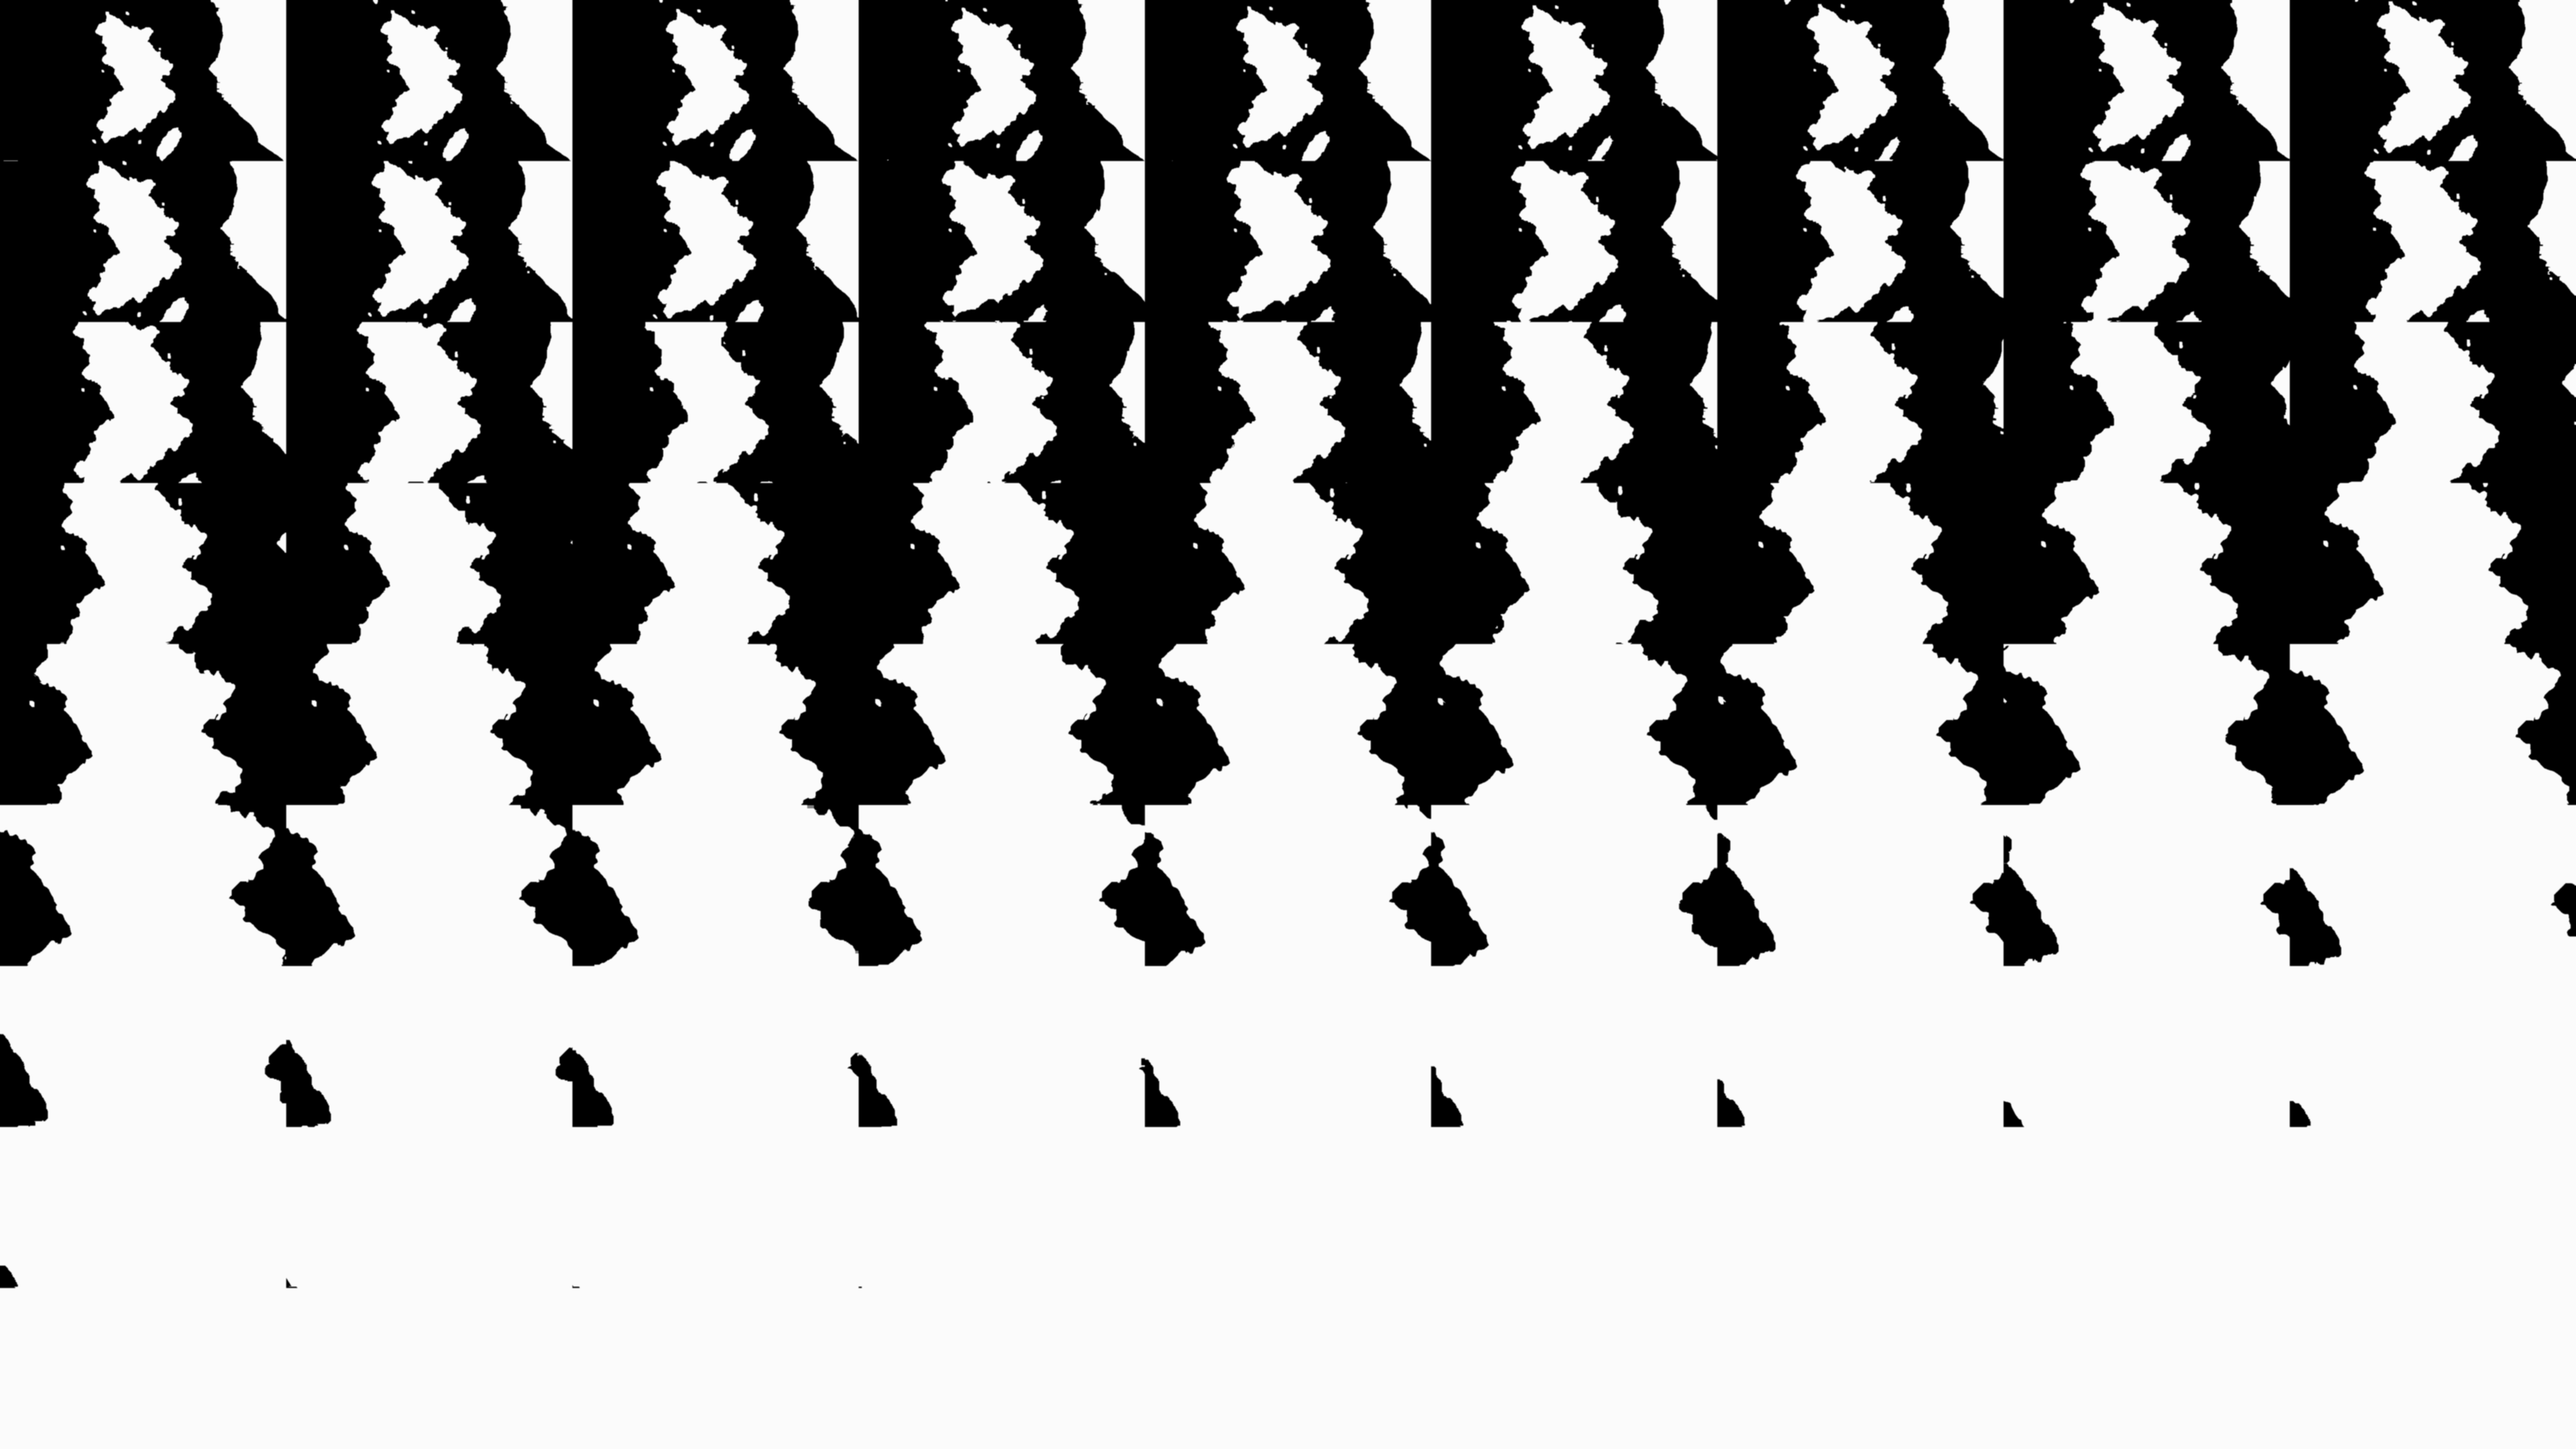
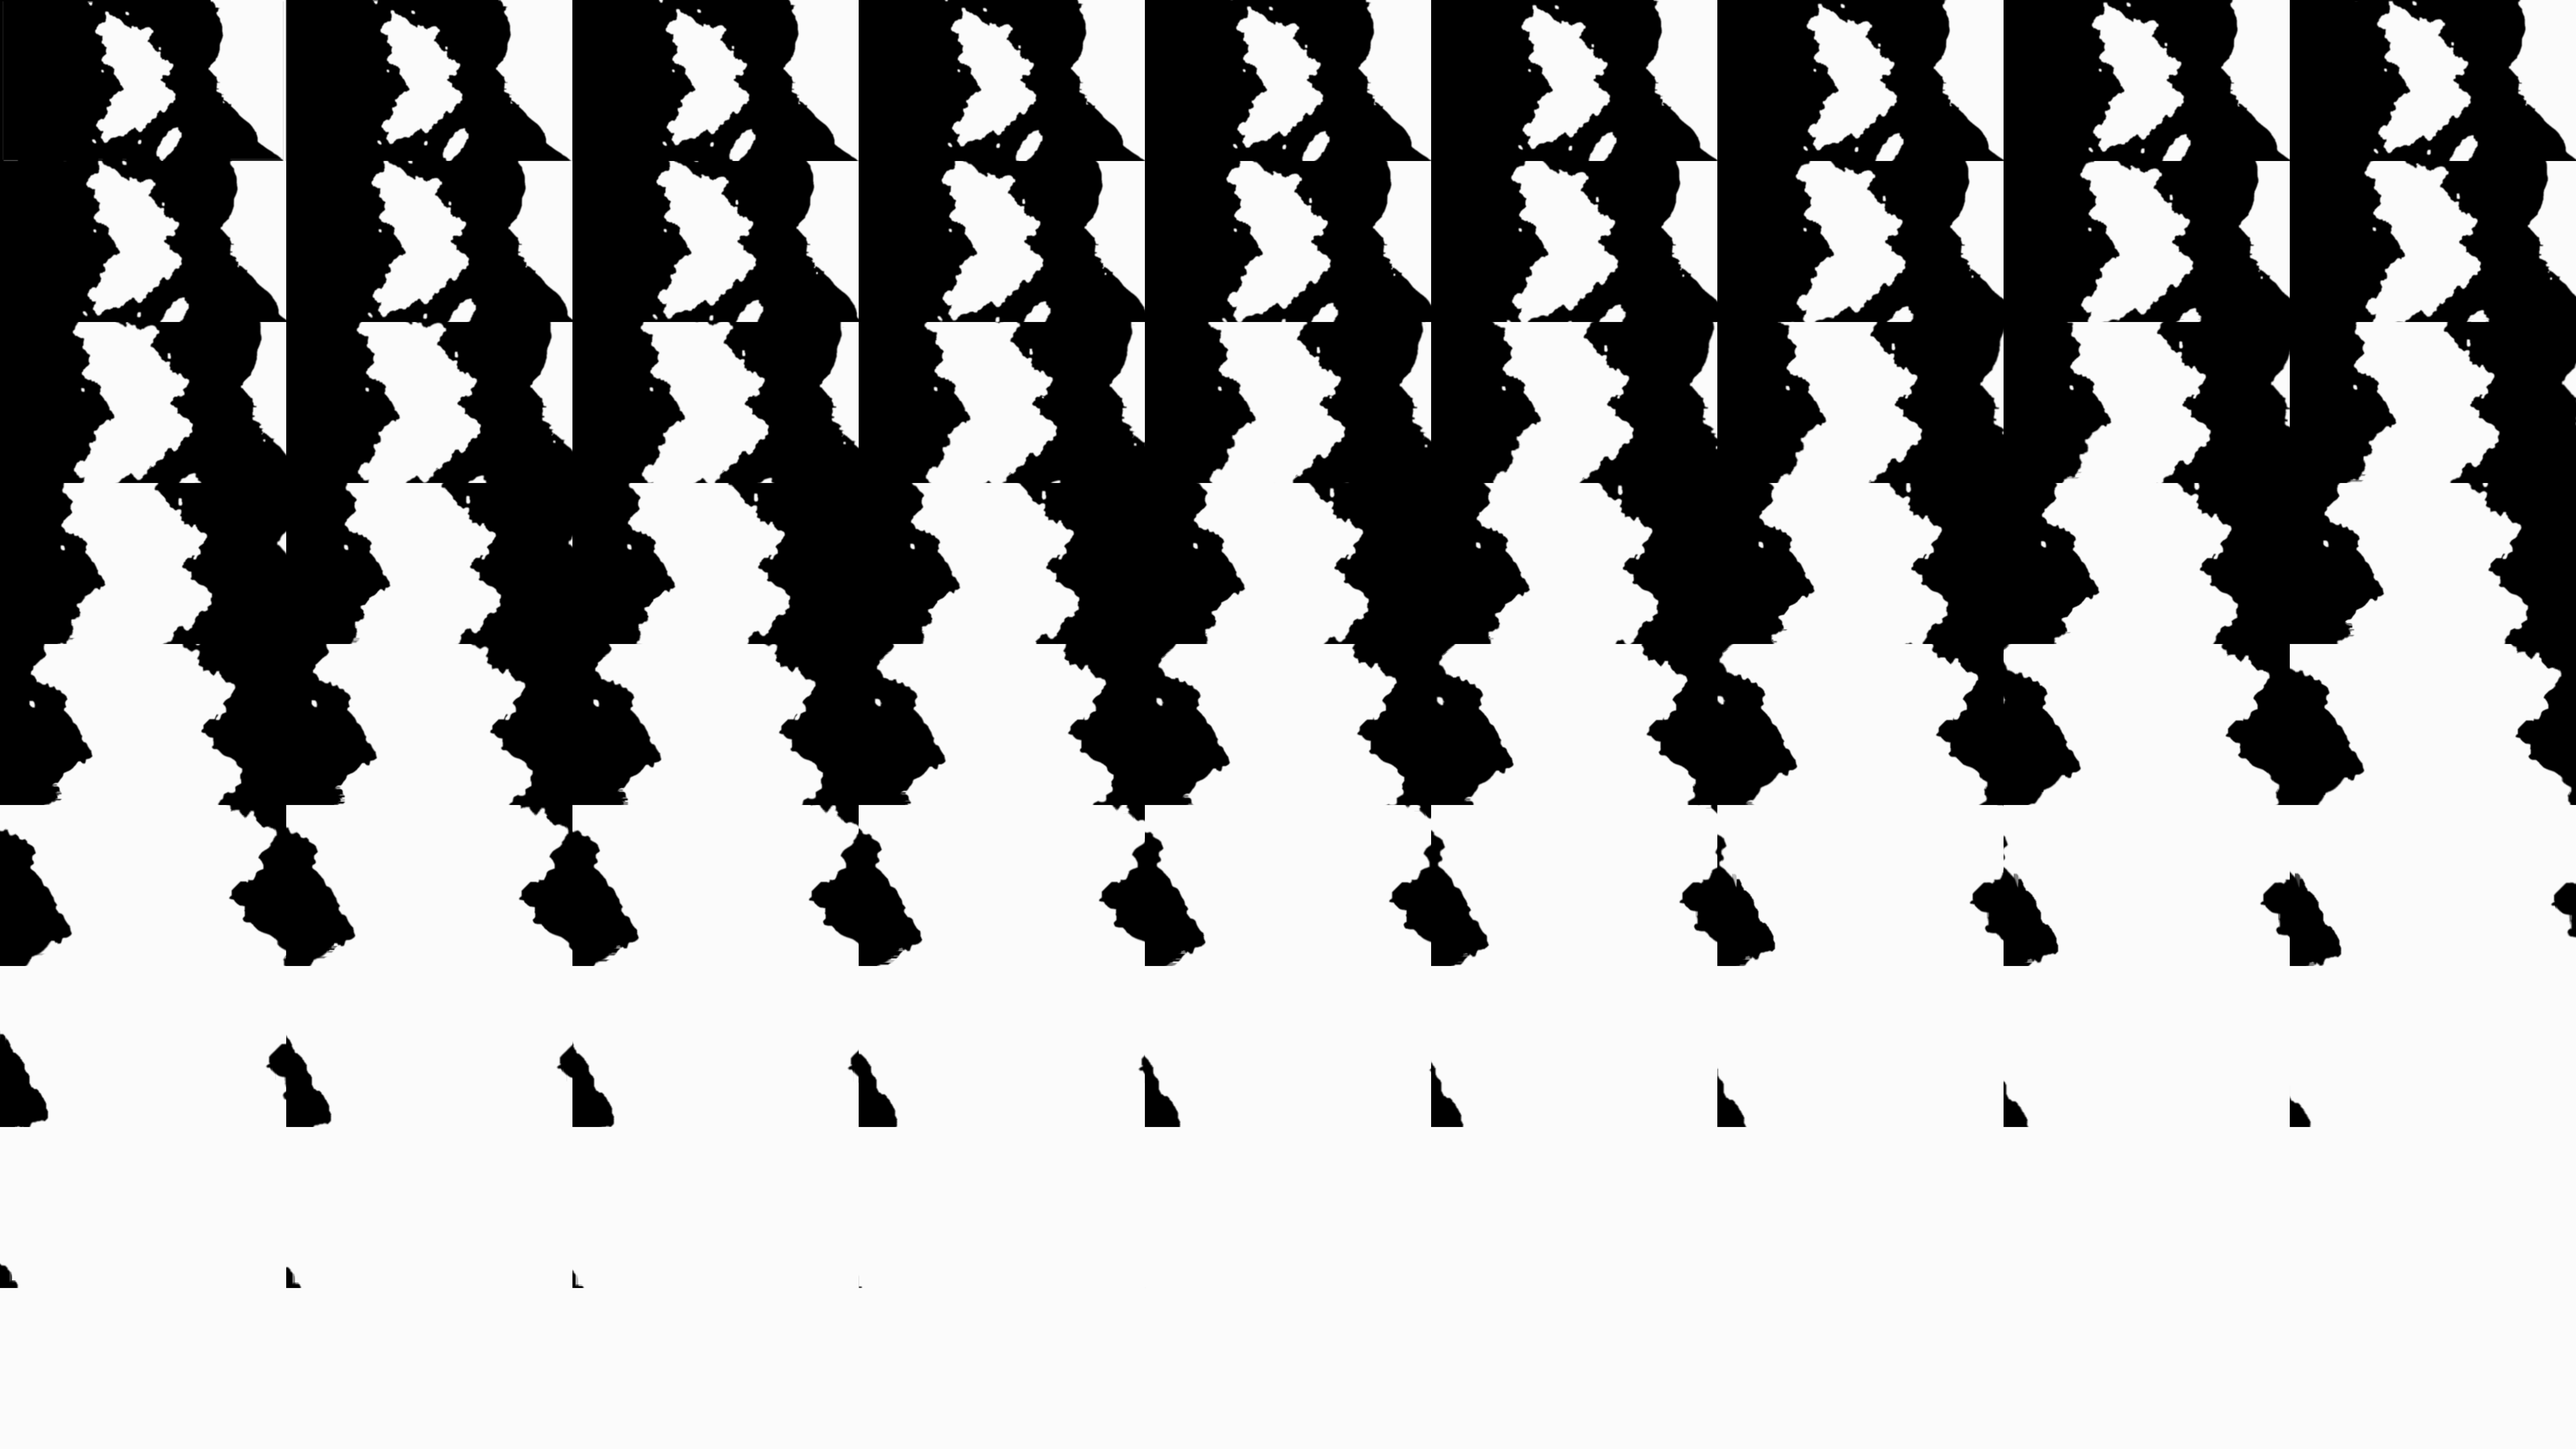
fix: the main land keeps its shape while zooming
- the clip's land pictures (one per frame) are made again from the frames around each, laid on the same
  ground: about one in seven had been traced a few percent smaller, so the land throbbed as they passed
- the coast is decided only from the map's land and noise fixed on the ground, nothing set against the screen
- map pictures' version raised so the new land picture is loaded

diff --git a/app/layout.tsx b/app/layout.tsx
@@ -21,7 +21,7 @@ export const viewport: Viewport = {
 
 // The planet's pictures are asked for in the page's head, so they come down at the same time as the
 // code that draws the planet (which is big) instead of after it.
-const PLANET_PICTURES = ['maps/globe-map.webp', 'maps/globe-land.webp?v=4', 'maps/milky-way.webp', 'maps/milky-way-2.webp']
+const PLANET_PICTURES = ['maps/globe-map.webp', 'maps/globe-land.webp?v=5', 'maps/milky-way.webp', 'maps/milky-way-2.webp']
 
 export default function RootLayout({ children }: Readonly<{ children: ReactNode }>) {
   PLANET_PICTURES.forEach((picture) => preload(assetPath(picture), { as: 'image' }))
